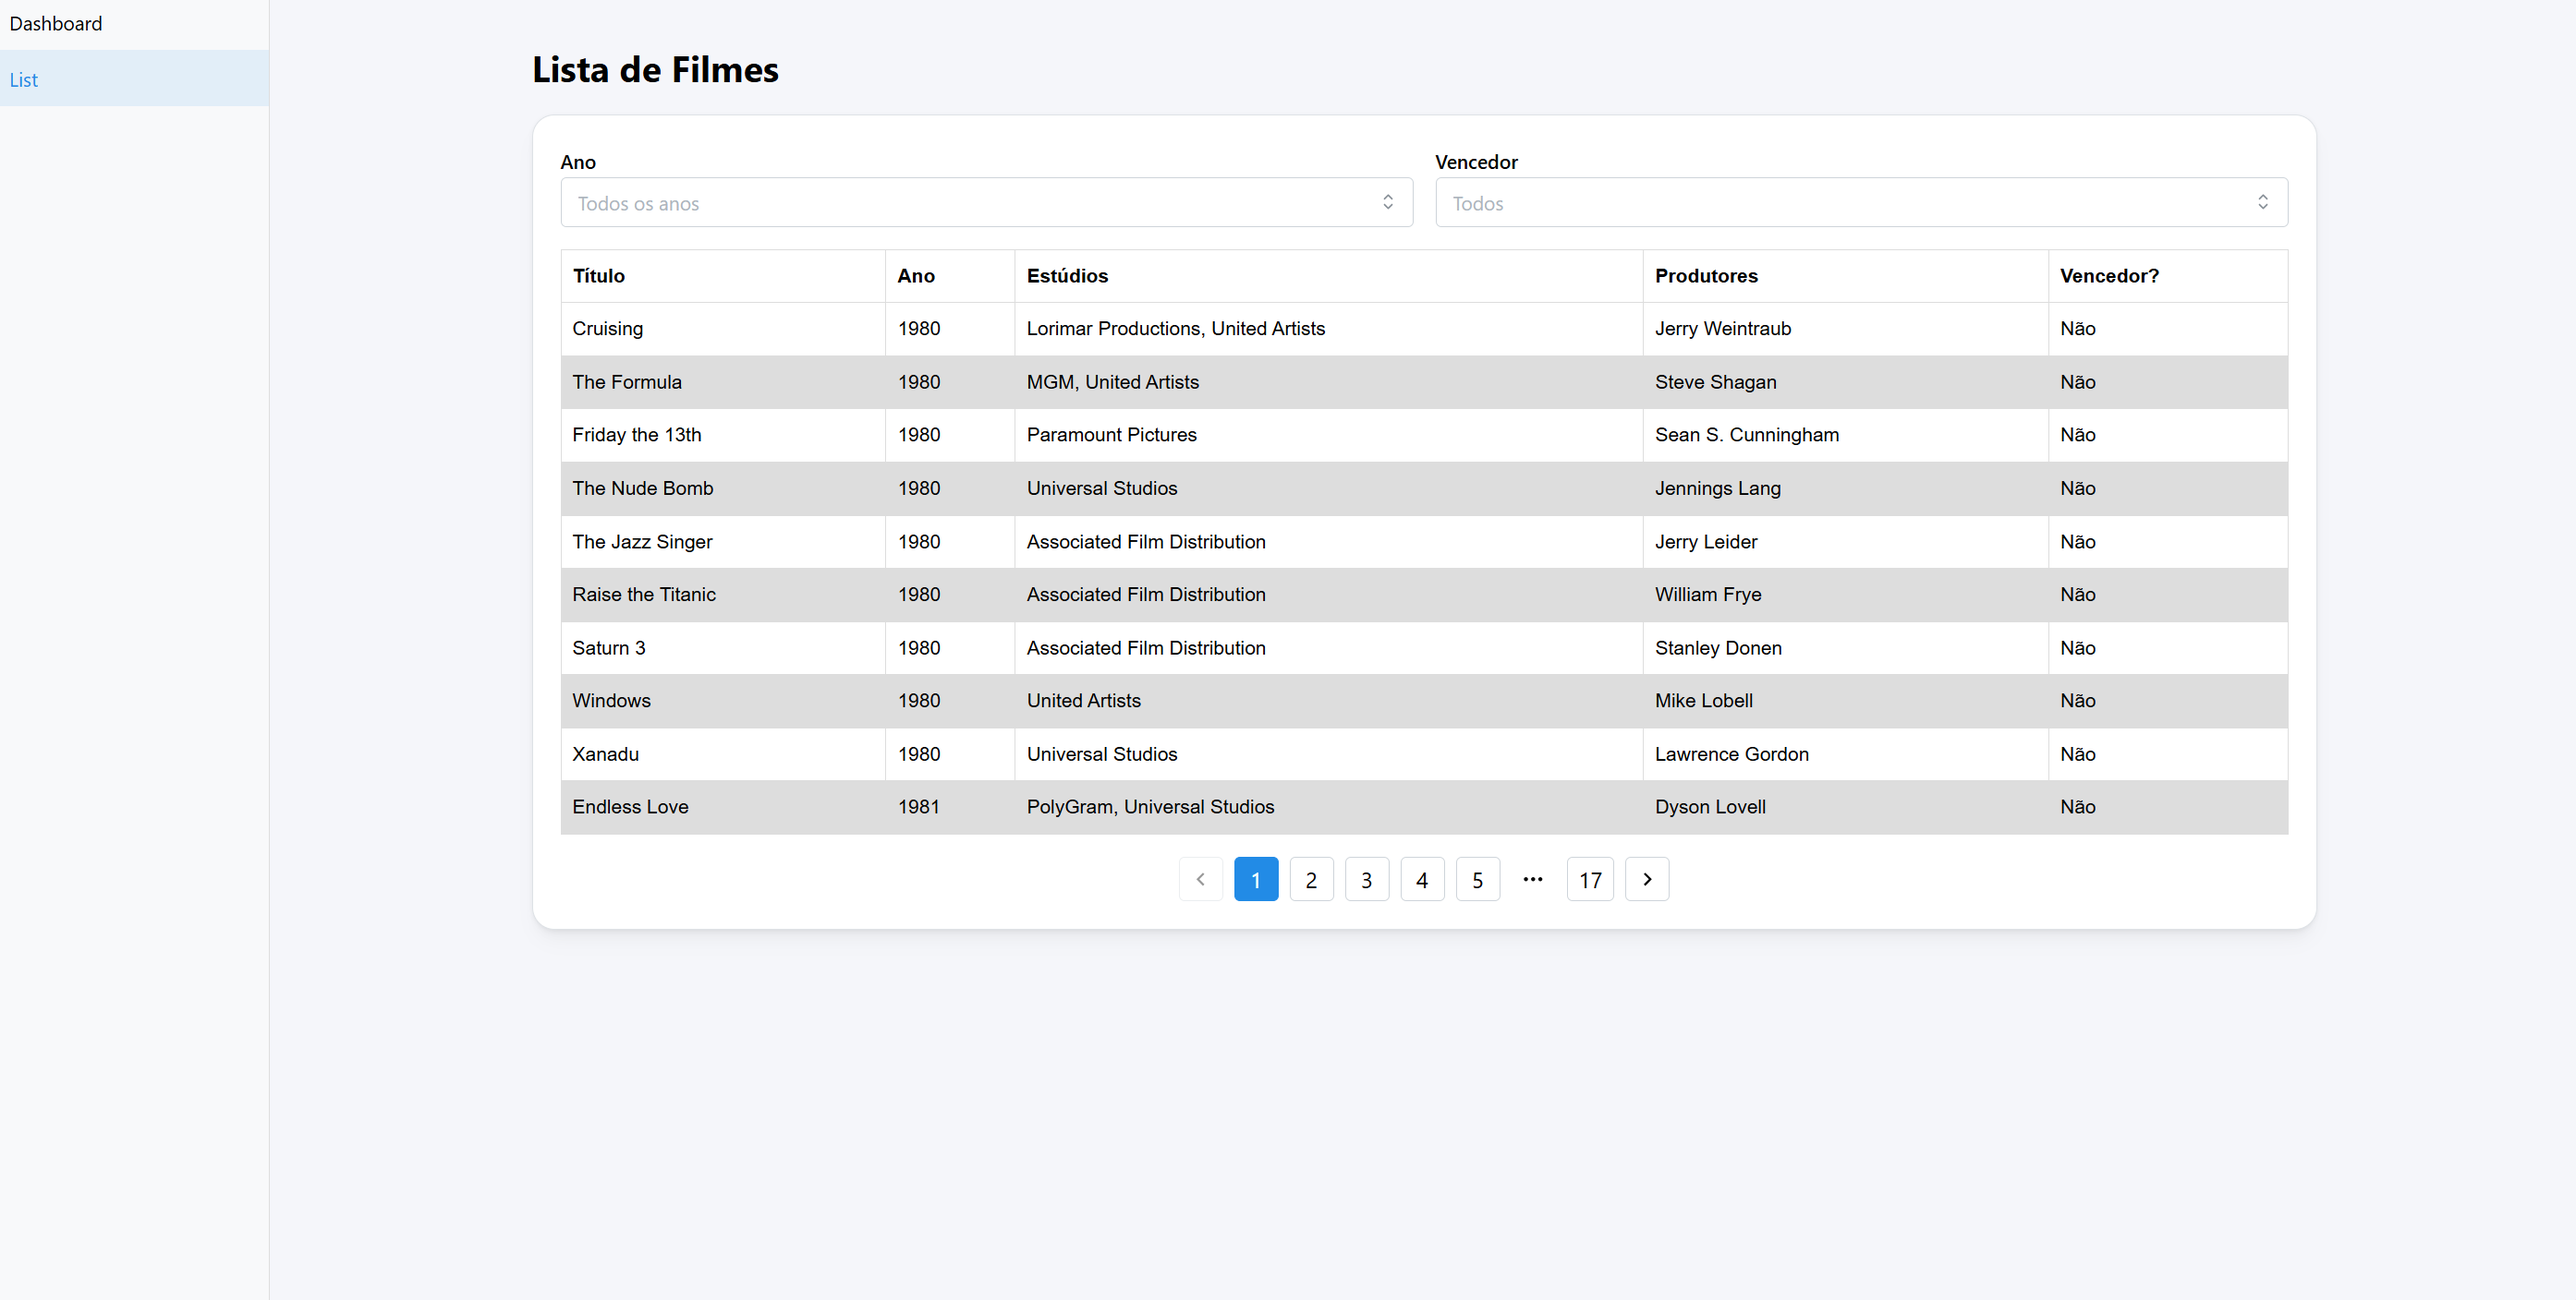
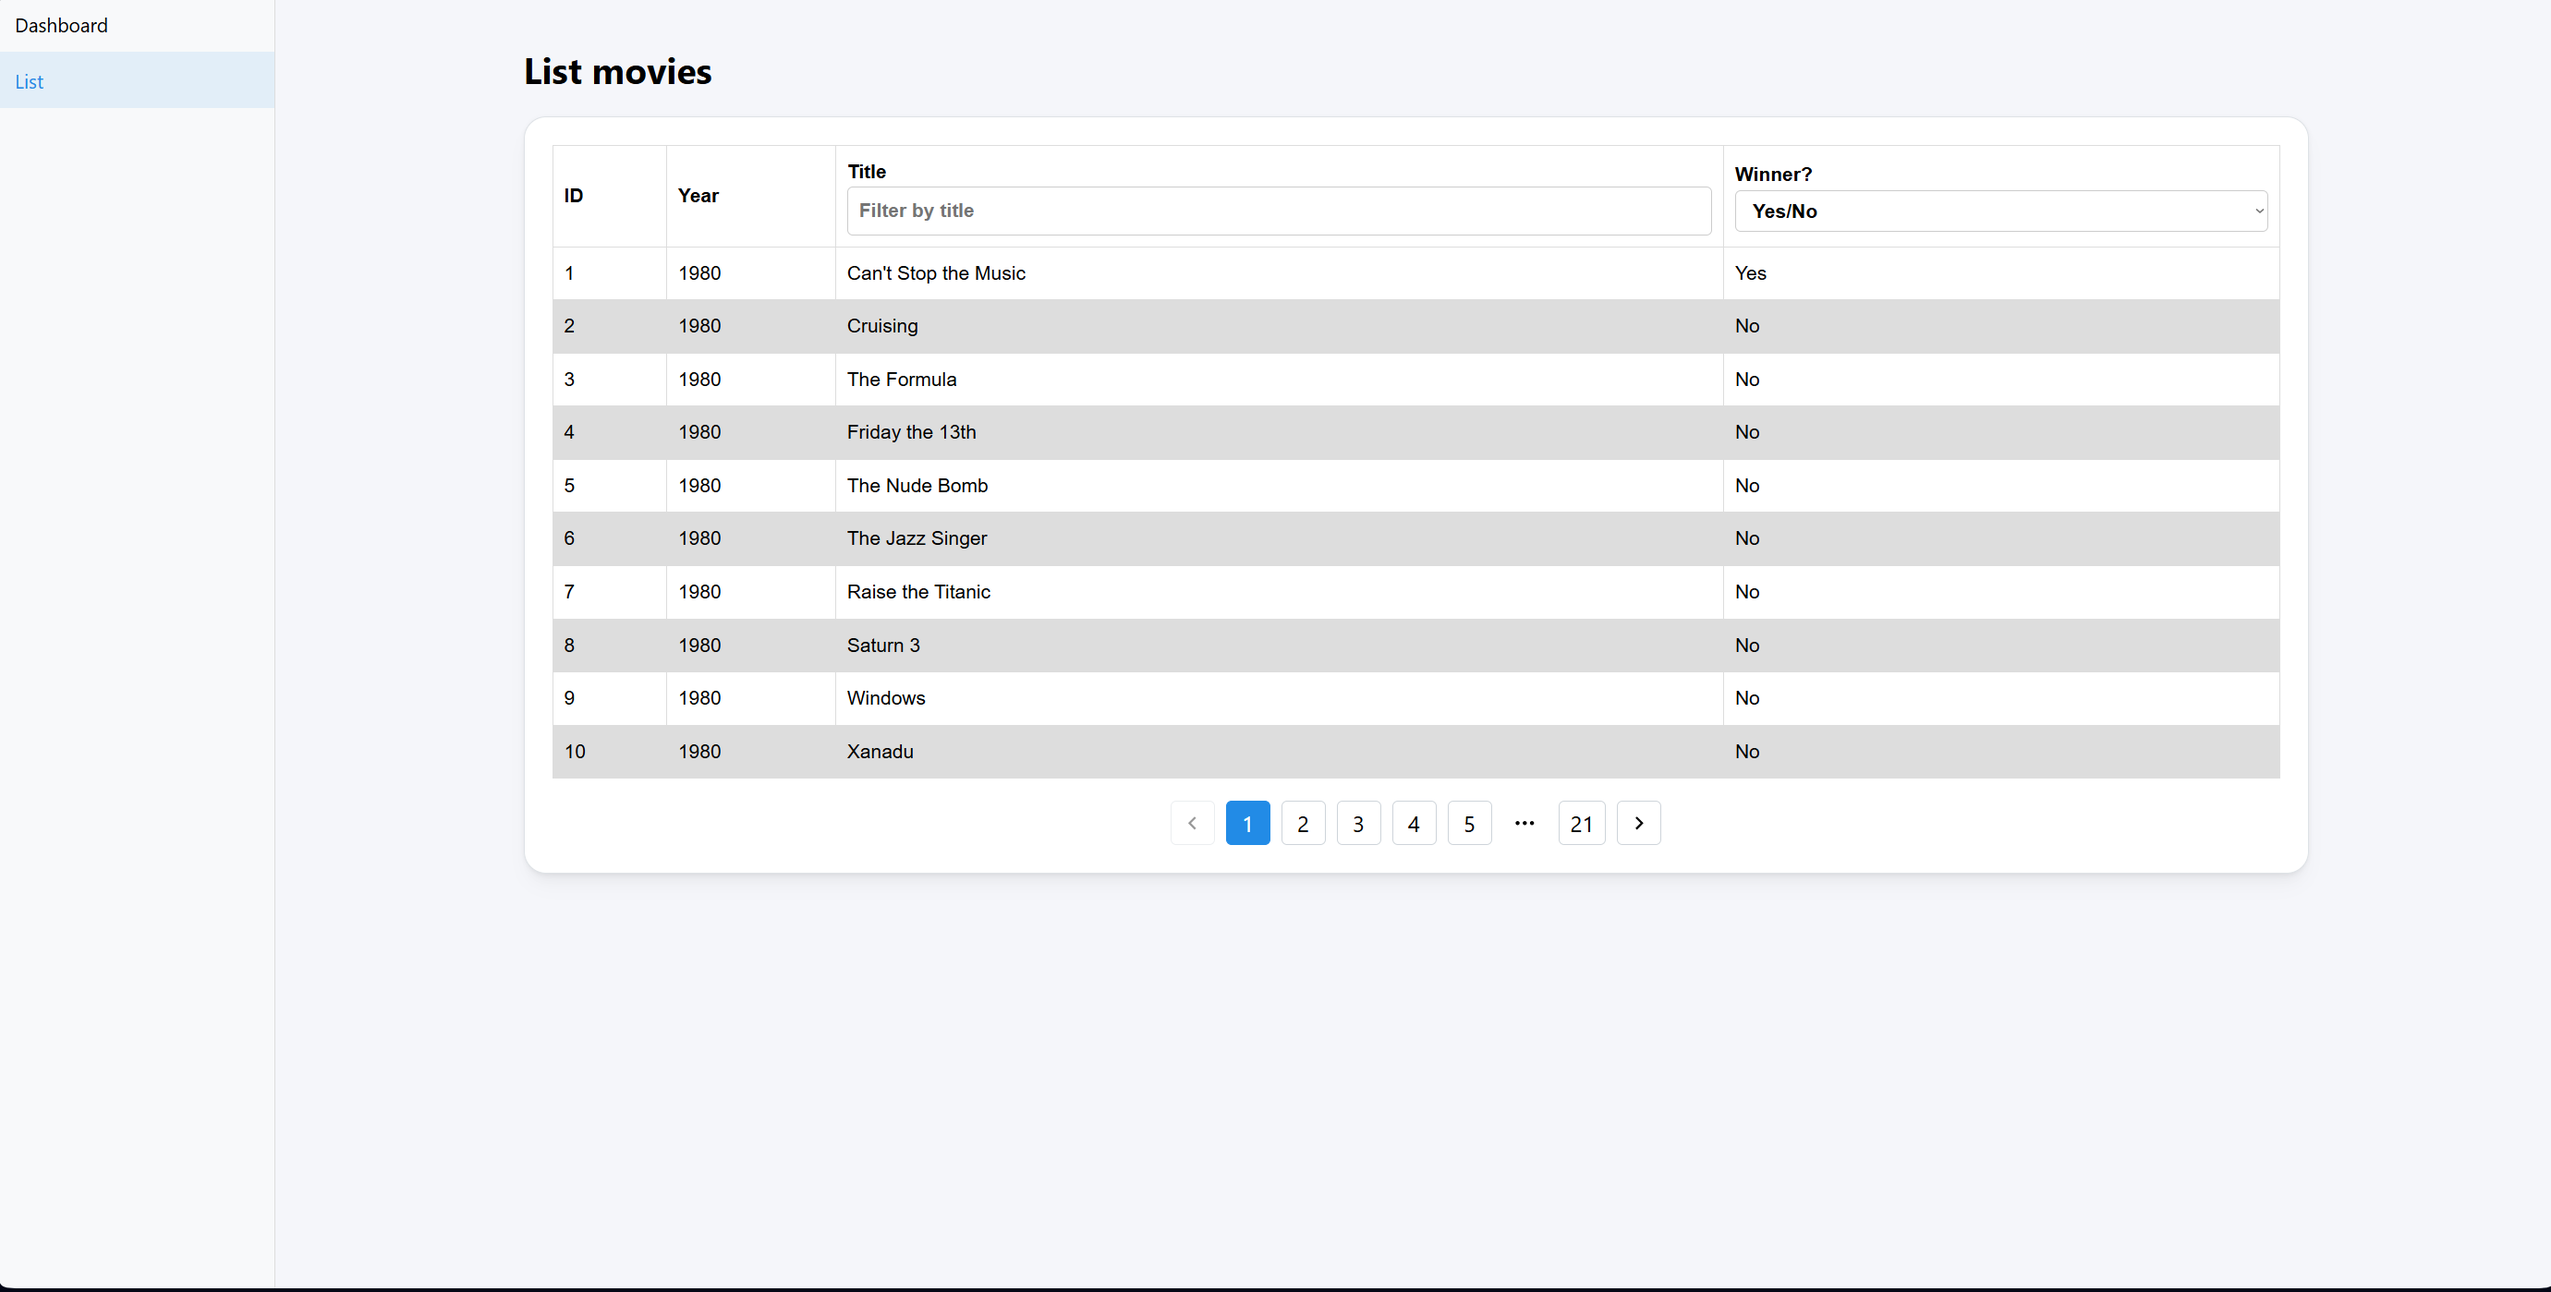
refactor: traduzindo textos e novo layout de filtros

diff --git a/src/components/MovieList/MovieTable.tsx b/src/components/MovieList/MovieTable.tsx
@@ -1,3 +1,4 @@
+import { useEffect, useMemo } from 'react';
 import { Table } from '@mantine/core';
 
 interface Movie {
@@ -9,28 +10,106 @@ interface Movie {
   winner: boolean;
 }
 
-const MovieTable = ({ movies }: { movies: Movie[] }) => {
+const PAGE_SIZE = 10;
+
+const MovieTable = ({
+  allMovies,
+  page,
+  filters,
+  onChange,
+  loading,
+  onPageChange,
+  onFilteredCountChange,
+}: {
+  allMovies: Movie[];
+  page: number;
+  filters: { title: string; winner: string };
+  onChange: (field: string, value: string) => void;
+  loading: boolean;
+  onPageChange: (page: number) => void;
+  onFilteredCountChange: (count: number) => void;
+}) => {
+  // aplicar filtros localmente
+  const filteredMovies = useMemo(() => {
+    return allMovies.filter((movie) => {
+      const matchTitle = filters.title
+        ? movie.title.toLowerCase().includes(filters.title.toLowerCase())
+        : true;
+
+      const matchWinner =
+        filters.winner !== ''
+          ? String(movie.winner) === filters.winner
+          : true;
+
+      return matchTitle && matchWinner;
+    });
+  }, [allMovies, filters]);
+
+  useEffect(() => {
+    onFilteredCountChange(filteredMovies.length);
+  }, [filteredMovies.length, onFilteredCountChange]);
+
+  // paginação local
+  const start = page * PAGE_SIZE;
+  const paginatedMovies = filteredMovies.slice(start, start + PAGE_SIZE);
+
   return (
     <Table striped highlightOnHover withColumnBorders>
       <thead>
         <tr>
-          <th>Título</th>
-          <th>Ano</th>
-          <th>Estúdios</th>
-          <th>Produtores</th>
-          <th>Vencedor?</th>
+          <th>ID</th>
+          <th>Year</th>
+          <th>
+            Title
+            <input
+              type="text"
+              placeholder="Filter by title"
+              value={filters.title}
+              className={"filterInput"}
+              onChange={(e) => onChange('title', e.target.value)}
+              style={{ width: '100%' }}
+            />
+          </th>
+          <th>
+            Winner?
+            <select
+              className={"filterInput"}
+
+              value={filters.winner}
+              onChange={(e) => {
+                onChange('winner', e.target.value);
+              }}
+            >
+              <option value="">Yes/No</option>
+              <option value="true">Yes</option>
+              <option value="false">No</option>
+            </select>
+          </th>
         </tr>
       </thead>
       <tbody>
-        {movies.map((m) => (
-          <tr key={m.id}>
-            <td>{m.title}</td>
-            <td>{m.year}</td>
-            <td>{m.studios.join(', ')}</td>
-            <td>{m.producers.join(', ')}</td>
-            <td>{m.winner ? 'Sim' : 'Não'}</td>
+        {loading ? (
+          <tr>
+            <td colSpan={4} style={{ textAlign: 'center' }}>
+              Carregando...
+            </td>
           </tr>
-        ))}
+        ) : paginatedMovies.length > 0 ? (
+          paginatedMovies.map((m, index) => (
+            <tr key={m.id}>
+              <td>{start + index + 1}</td>
+              <td>{m.year}</td>
+              <td>{m.title}</td>
+              <td>{m.winner ? 'Yes' : 'No'}</td>
+            </tr>
+          ))
+        ) : (
+          <tr>
+            <td colSpan={4} style={{ textAlign: 'center' }}>
+              Nenhum filme encontrado.
+            </td>
+          </tr>
+        )}
       </tbody>
     </Table>
   );

diff --git a/src/pages/Movies.tsx b/src/pages/Movies.tsx
@@ -3,15 +3,11 @@ import {
   Container,
   Title,
   Paper,
-  Grid,
-  Loader,
   Stack,
 } from '@mantine/core';
-import Pagination from '../components/MovieList/Pagination';
 import { getMovies, getAllYears } from '../services/movieApi';
-import Filters from '../components/MovieList/Filters';
+import Pagination from '../components/MovieList/Pagination';
 import MovieTable from '../components/MovieList/MovieTable';
-
 
 interface Movie {
   id: number;
@@ -23,64 +19,61 @@ interface Movie {
 }
 
 const Movies = () => {
-  const [movies, setMovies] = useState<Movie[]>([]);
+  const [allMovies, setAllMovies] = useState<Movie[]>([]);
   const [years, setYears] = useState<string[]>([]);
   const [loading, setLoading] = useState(true);
 
   const [page, setPage] = useState(0);
   const [totalPages, setTotalPages] = useState(1);
-  const [filters, setFilters] = useState({
-    year: '',
-    winner: '',
-  });
+  const [filters, setFilters] = useState({ title: '', winner: '' });
 
   const fetchData = async () => {
     setLoading(true);
-    const response = await getMovies(page, 10, +filters.year || undefined, filters.winner === 'true');
-    setMovies(response.content);
-    setTotalPages(response.totalPages);
-    setLoading(false);
+    try {
+      const response = await getMovies(0, 9999);
+      console.log(response.content)
+      setAllMovies(response.content || []);
+    } catch (error) {
+      console.error('Erro ao buscar filmes:', error);
+    } finally {
+      setLoading(false);
+    }
   };
 
   useEffect(() => {
     getAllYears().then(setYears);
+    fetchData();
   }, []);
 
-  useEffect(() => {
-    fetchData();
-  }, [page, filters]);
-
   const handleFilterChange = (field: string, value: string) => {
-    setPage(0); // resetar para primeira página
     setFilters((prev) => ({
       ...prev,
       [field]: value,
     }));
+    setPage(0); // resetar pagina ao aplicar filtro
   };
 
   return (
     <Container size="xl" py="lg">
-      <Title order={2} mb="md">Lista de Filmes</Title>
+      <Title order={2} mb="md">List movies</Title>
       <Paper shadow="sm" p="lg" radius="lg" withBorder>
         <Stack gap="md">
-          <Filters
-            years={years}
+          <MovieTable
+            allMovies={allMovies}
+            page={page}
             filters={filters}
             onChange={handleFilterChange}
+            loading={loading}
+            onPageChange={setPage}
+            onFilteredCountChange={(count: number) =>
+              setTotalPages(Math.ceil(count / 10))
+            }
           />
-
-          {loading ? (
-            <Loader />
-          ) : (
-            <>
-              <MovieTable movies={movies} />
-              <Pagination
-                currentPage={page}
-                totalPages={totalPages}
-                onPageChange={setPage}
-              />
-            </>
-          )}
+          <Pagination
+            currentPage={page}
+            totalPages={totalPages}
+            onPageChange={setPage}
+          />
         </Stack>
       </Paper>
     </Container>

diff --git a/src/components/MovieList/Filters.tsx b/src/components/MovieList/Filters.tsx
@@ -3,7 +3,7 @@ import { Select, Group } from '@mantine/core';
 interface FiltersProps {
   years: string[];
   filters: {
-    year: string;
+    title: string;
     winner: string;
   };
   onChange: (field: string, value: string) => void;
@@ -13,20 +13,20 @@ const Filters = ({ years, filters, onChange }: FiltersProps) => {
   return (
     <Group grow>
       <Select
-        label="Ano"
-        placeholder="Todos os anos"
+        label="Year"
+        placeholder="Every year"
         data={years}
-        value={filters.year}
+        value={filters.title}
         onChange={(value) => onChange('year', value || '')}
         clearable
       />
 
       <Select
-        label="Vencedor"
-        placeholder="Todos"
+        label="Winner"
+        placeholder="All"
         data={[
-          { value: 'true', label: 'Sim' },
-          { value: 'false', label: 'Não' },
+          { value: 'true', label: 'Yes' },
+          { value: 'false', label: 'No' },
         ]}
         value={filters.winner}
         onChange={(value) => onChange('winner', value || '')}

diff --git a/src/tests/MovieTable.test.tsx b/src/tests/MovieTable.test.tsx
@@ -14,7 +14,16 @@ const mockMovies = [
 
 describe('MovieTable', () => {
   it('exibe os dados dos filmes corretamente', async () => {
-    render(<MovieTable movies={mockMovies} />);
+    render(<MovieTable allMovies={[]} page={0} onPageChange={function (page: number): void {
+      throw new Error('Function not implemented.');
+    } } filters={{
+      title: '',
+      winner: ''
+    }} onChange={function (field: string, value: string): void {
+      throw new Error('Function not implemented.');
+    } } loading={false} onFilteredCountChange={function (count: number): void {
+      throw new Error('Function not implemented.');
+    } } />)
 
     // Aguarda os títulos aparecerem 
     expect(await screen.findByText('Título')).toBeInTheDocument();

diff --git a/src/tests/Filters.test.tsx b/src/tests/Filters.test.tsx
@@ -9,7 +9,7 @@ describe('Filters', () => {
     render(
       <Filters
         years={['1990', '2000']}
-        filters={{ year: '', winner: '' }}
+        filters={{ title: '', winner: '' }}
         onChange={handleChange}
       />
     );

diff --git a/src/styles/global.css b/src/styles/global.css
@@ -17,3 +17,12 @@ td, th {
 tr:nth-child(even) {
   background-color: #dddddd;
 }
+
+.filterInput {
+  width: 100%;
+  padding: 6px 8px;
+  border: 1px solid #ccc;
+  border-radius: 4px;
+  font-size: 14px;
+  box-sizing: border-box;
+}
